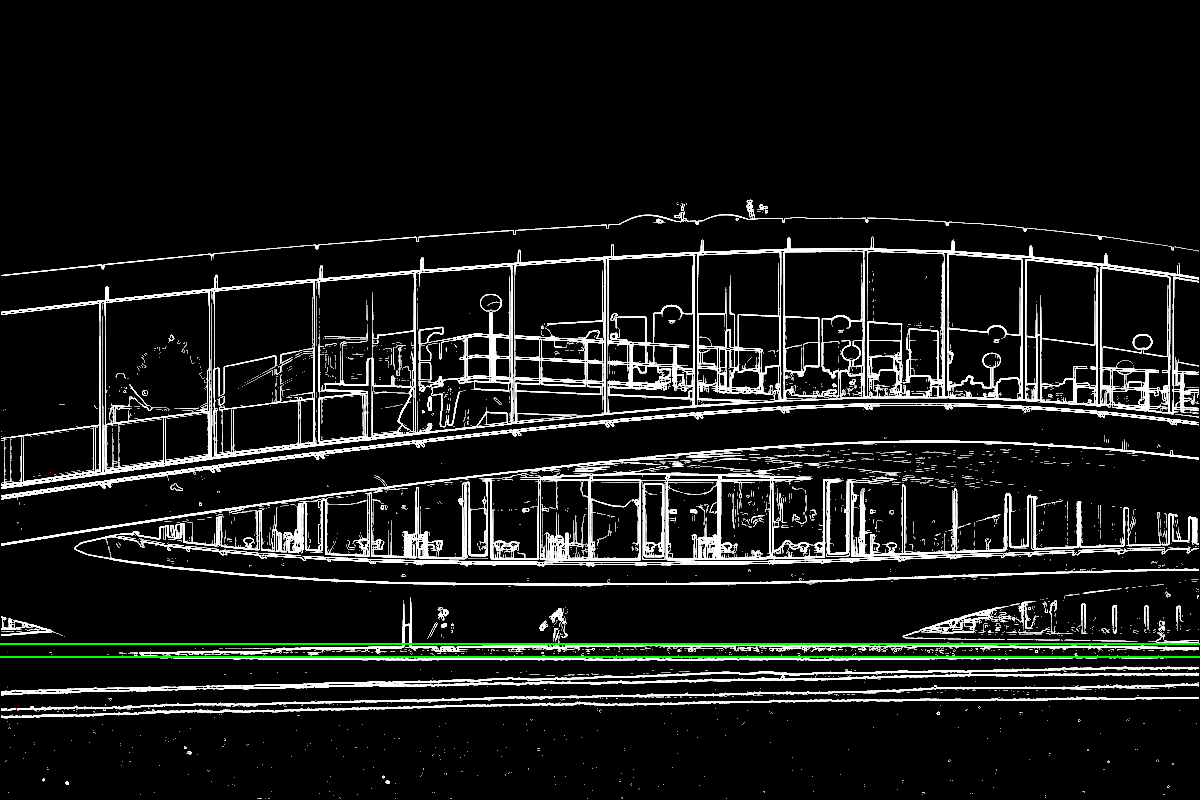
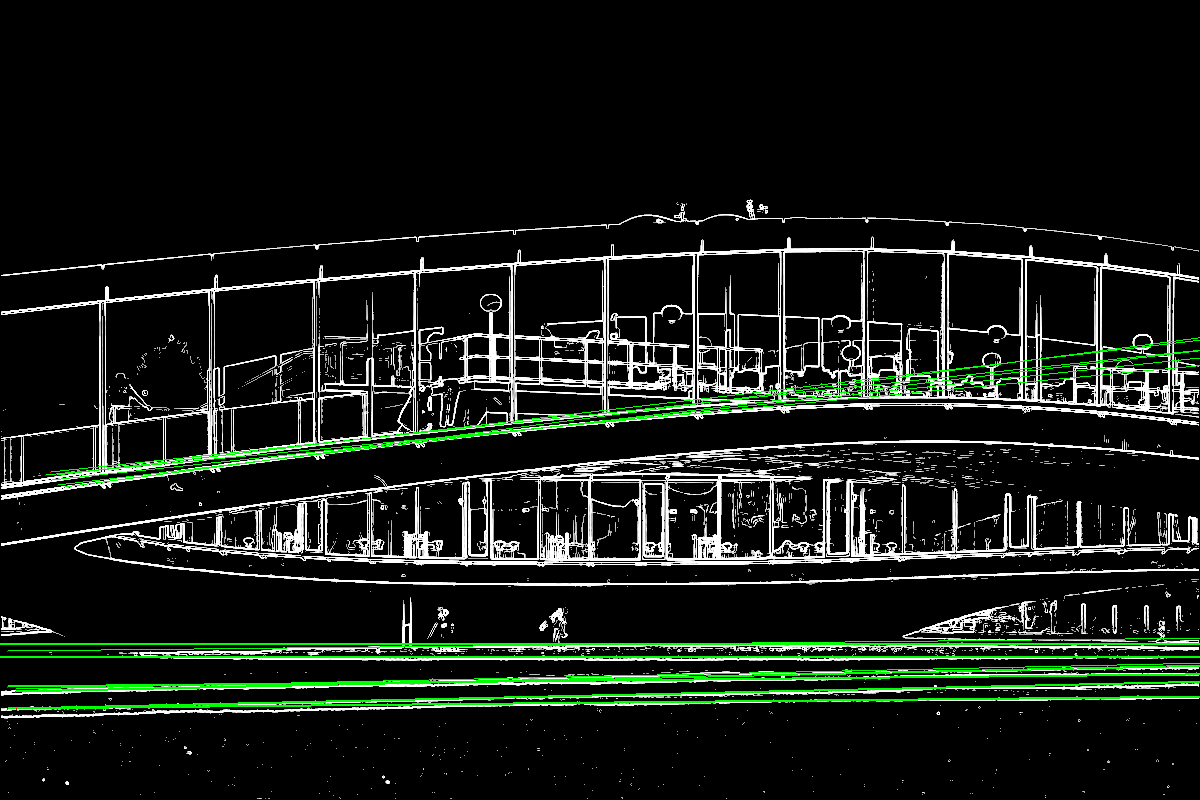
Right side of all line in the image

diff --git a/host/src/PNGimg.cpp b/host/src/PNGimg.cpp
@@ -204,7 +204,7 @@ void draw_line(	png_bytep *rows, int rDim, int phiDim, int accPos,
 	/**
  	*  Since we have (x,y) pixel the line goes from (0,0) to (x,y)
  	*  we can find his slope (y-0)/(x-0) invert it to make it go
- 	*  if slope = y/x then perpendicular orthSlope = - 1/slope 
+ 	*  if slope = y/x then perpendicular orthSlope = - 1/slope = -x/y
 	*/
 
 	if(xPixel == 0){ // horizontal line
@@ -223,8 +223,23 @@ void draw_line(	png_bytep *rows, int rDim, int phiDim, int accPos,
 			pixel[1] = 255;
 			pixel[2] = 0;
 		}
-	} else{
+	} else{ // all other lines
+		float orthSlope = - xPixel/(float)yPixel;
+		int pxR = xPixel;
+		float pyR = yPixel;
+		while(pxR < width){
+			pxR++;
+			pyR+=orthSlope;
 
+			 // line on the right side of the point
+			if(pxR > 0 && pyR > 0 && pxR < width && pyR < height){
+				row = rows[(int)pyR];
+				pixel = &(row[pxR * 4]);
+				pixel[0] = 0;
+				pixel[1] = 255;
+				pixel[2] = 0;
+			}
+		}
 	}
 //	printf("pente : %f\n", slope);
 	//while()
